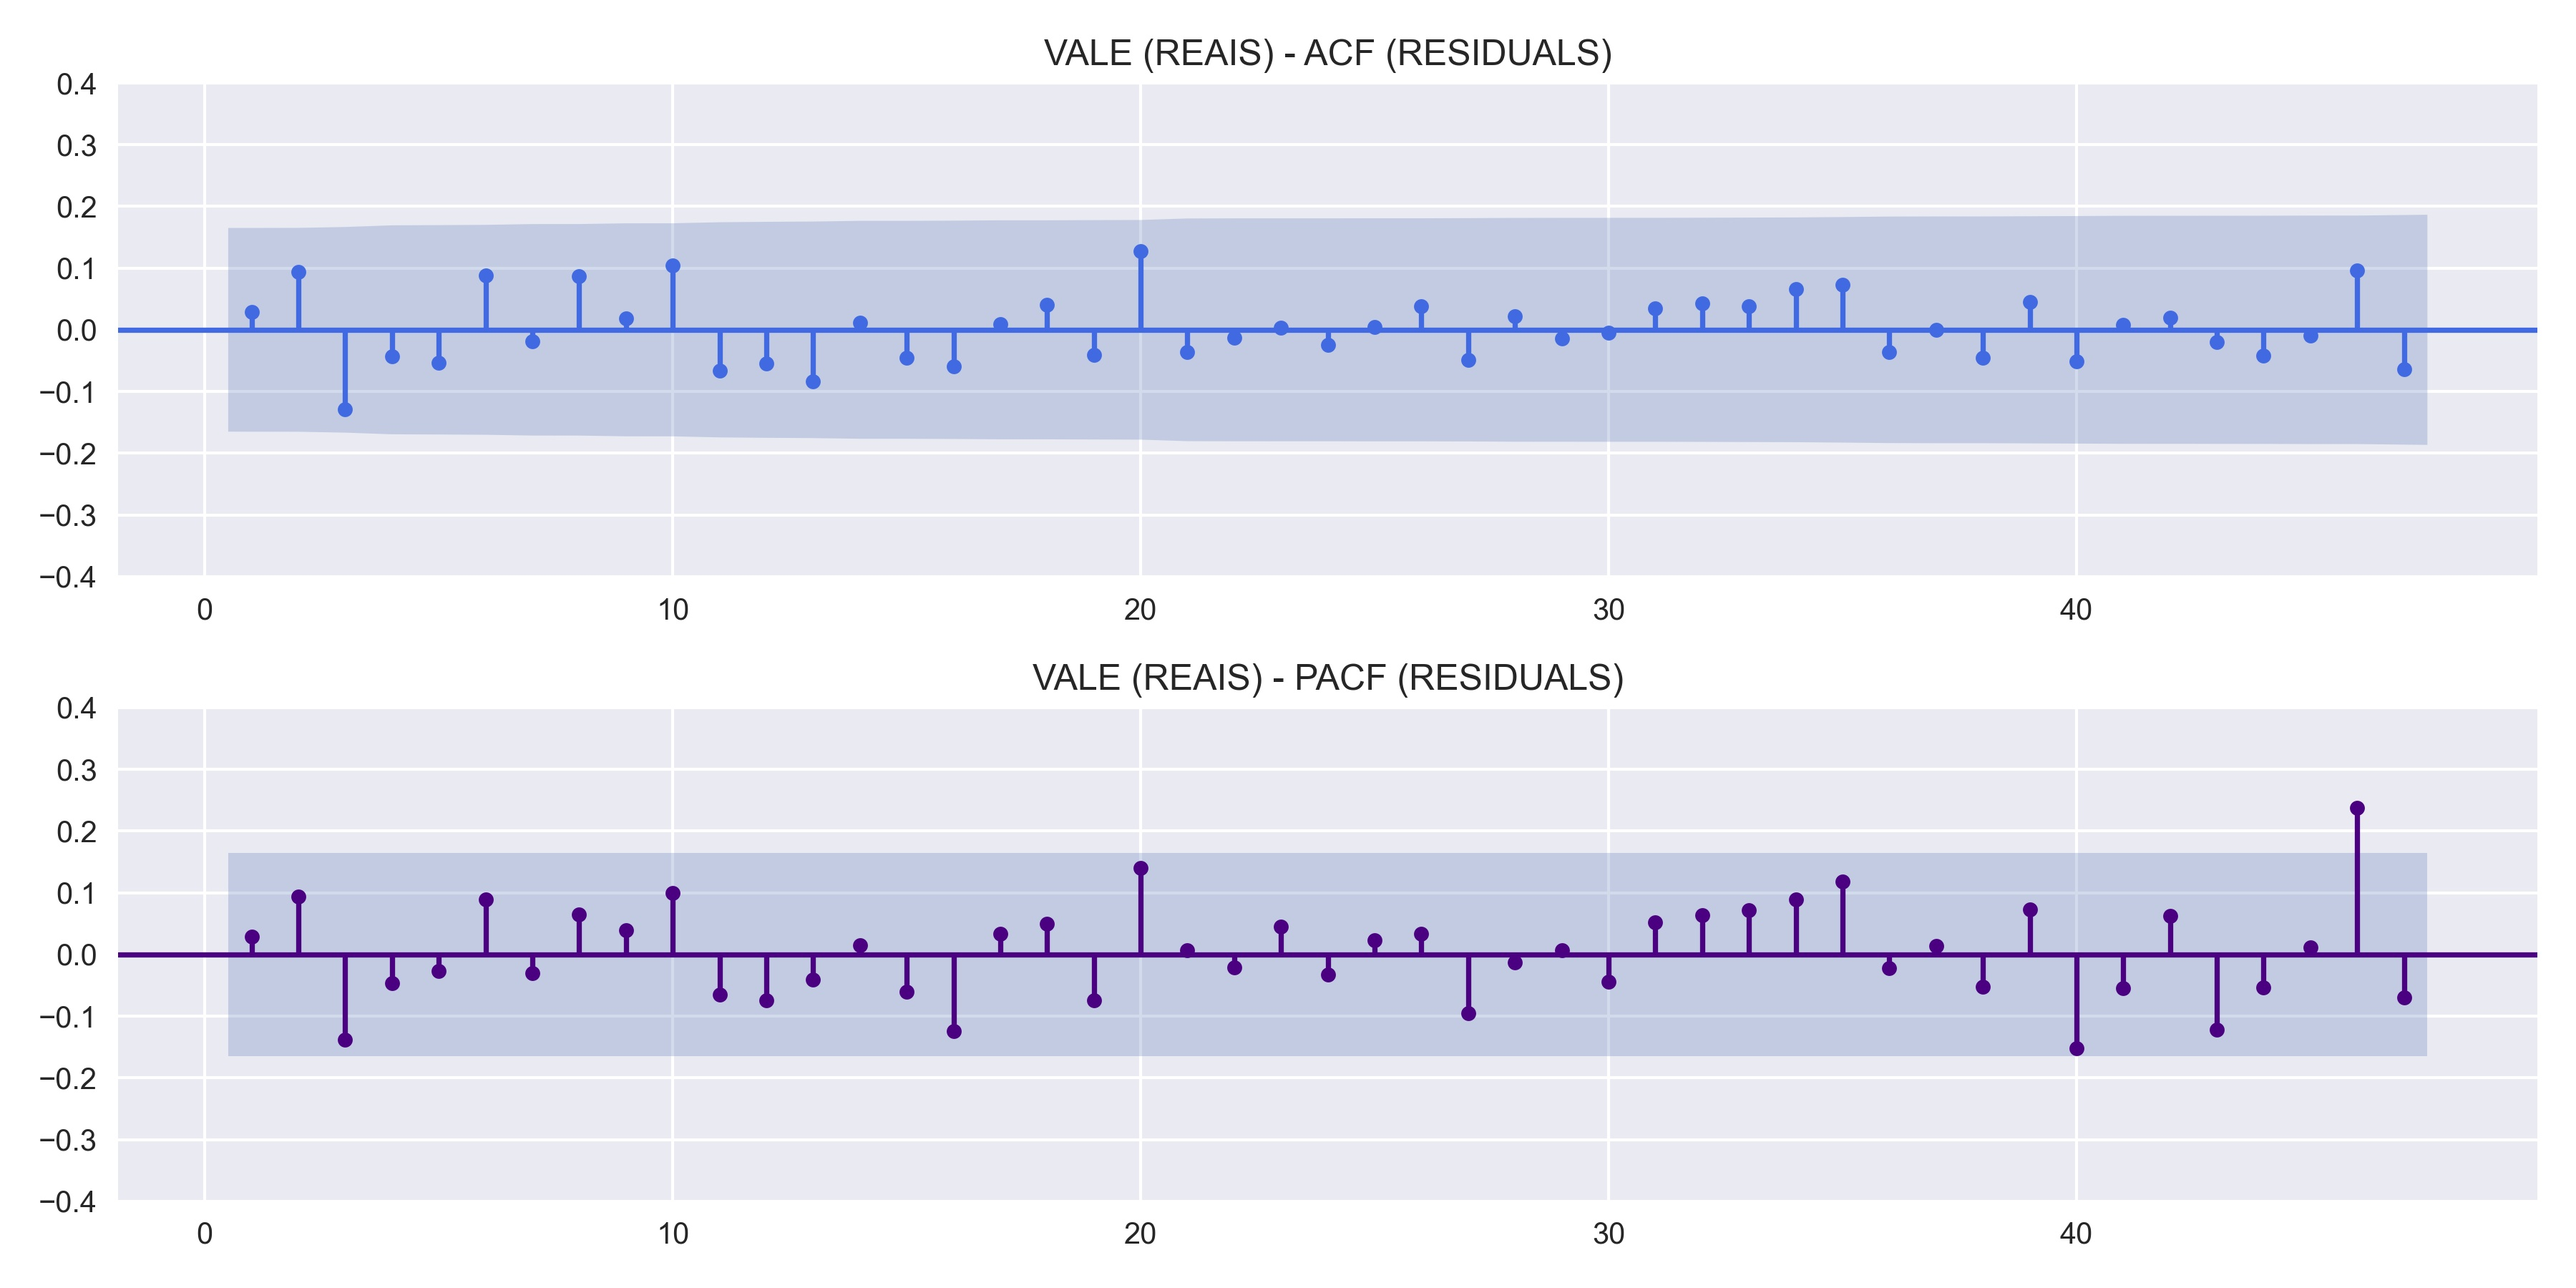
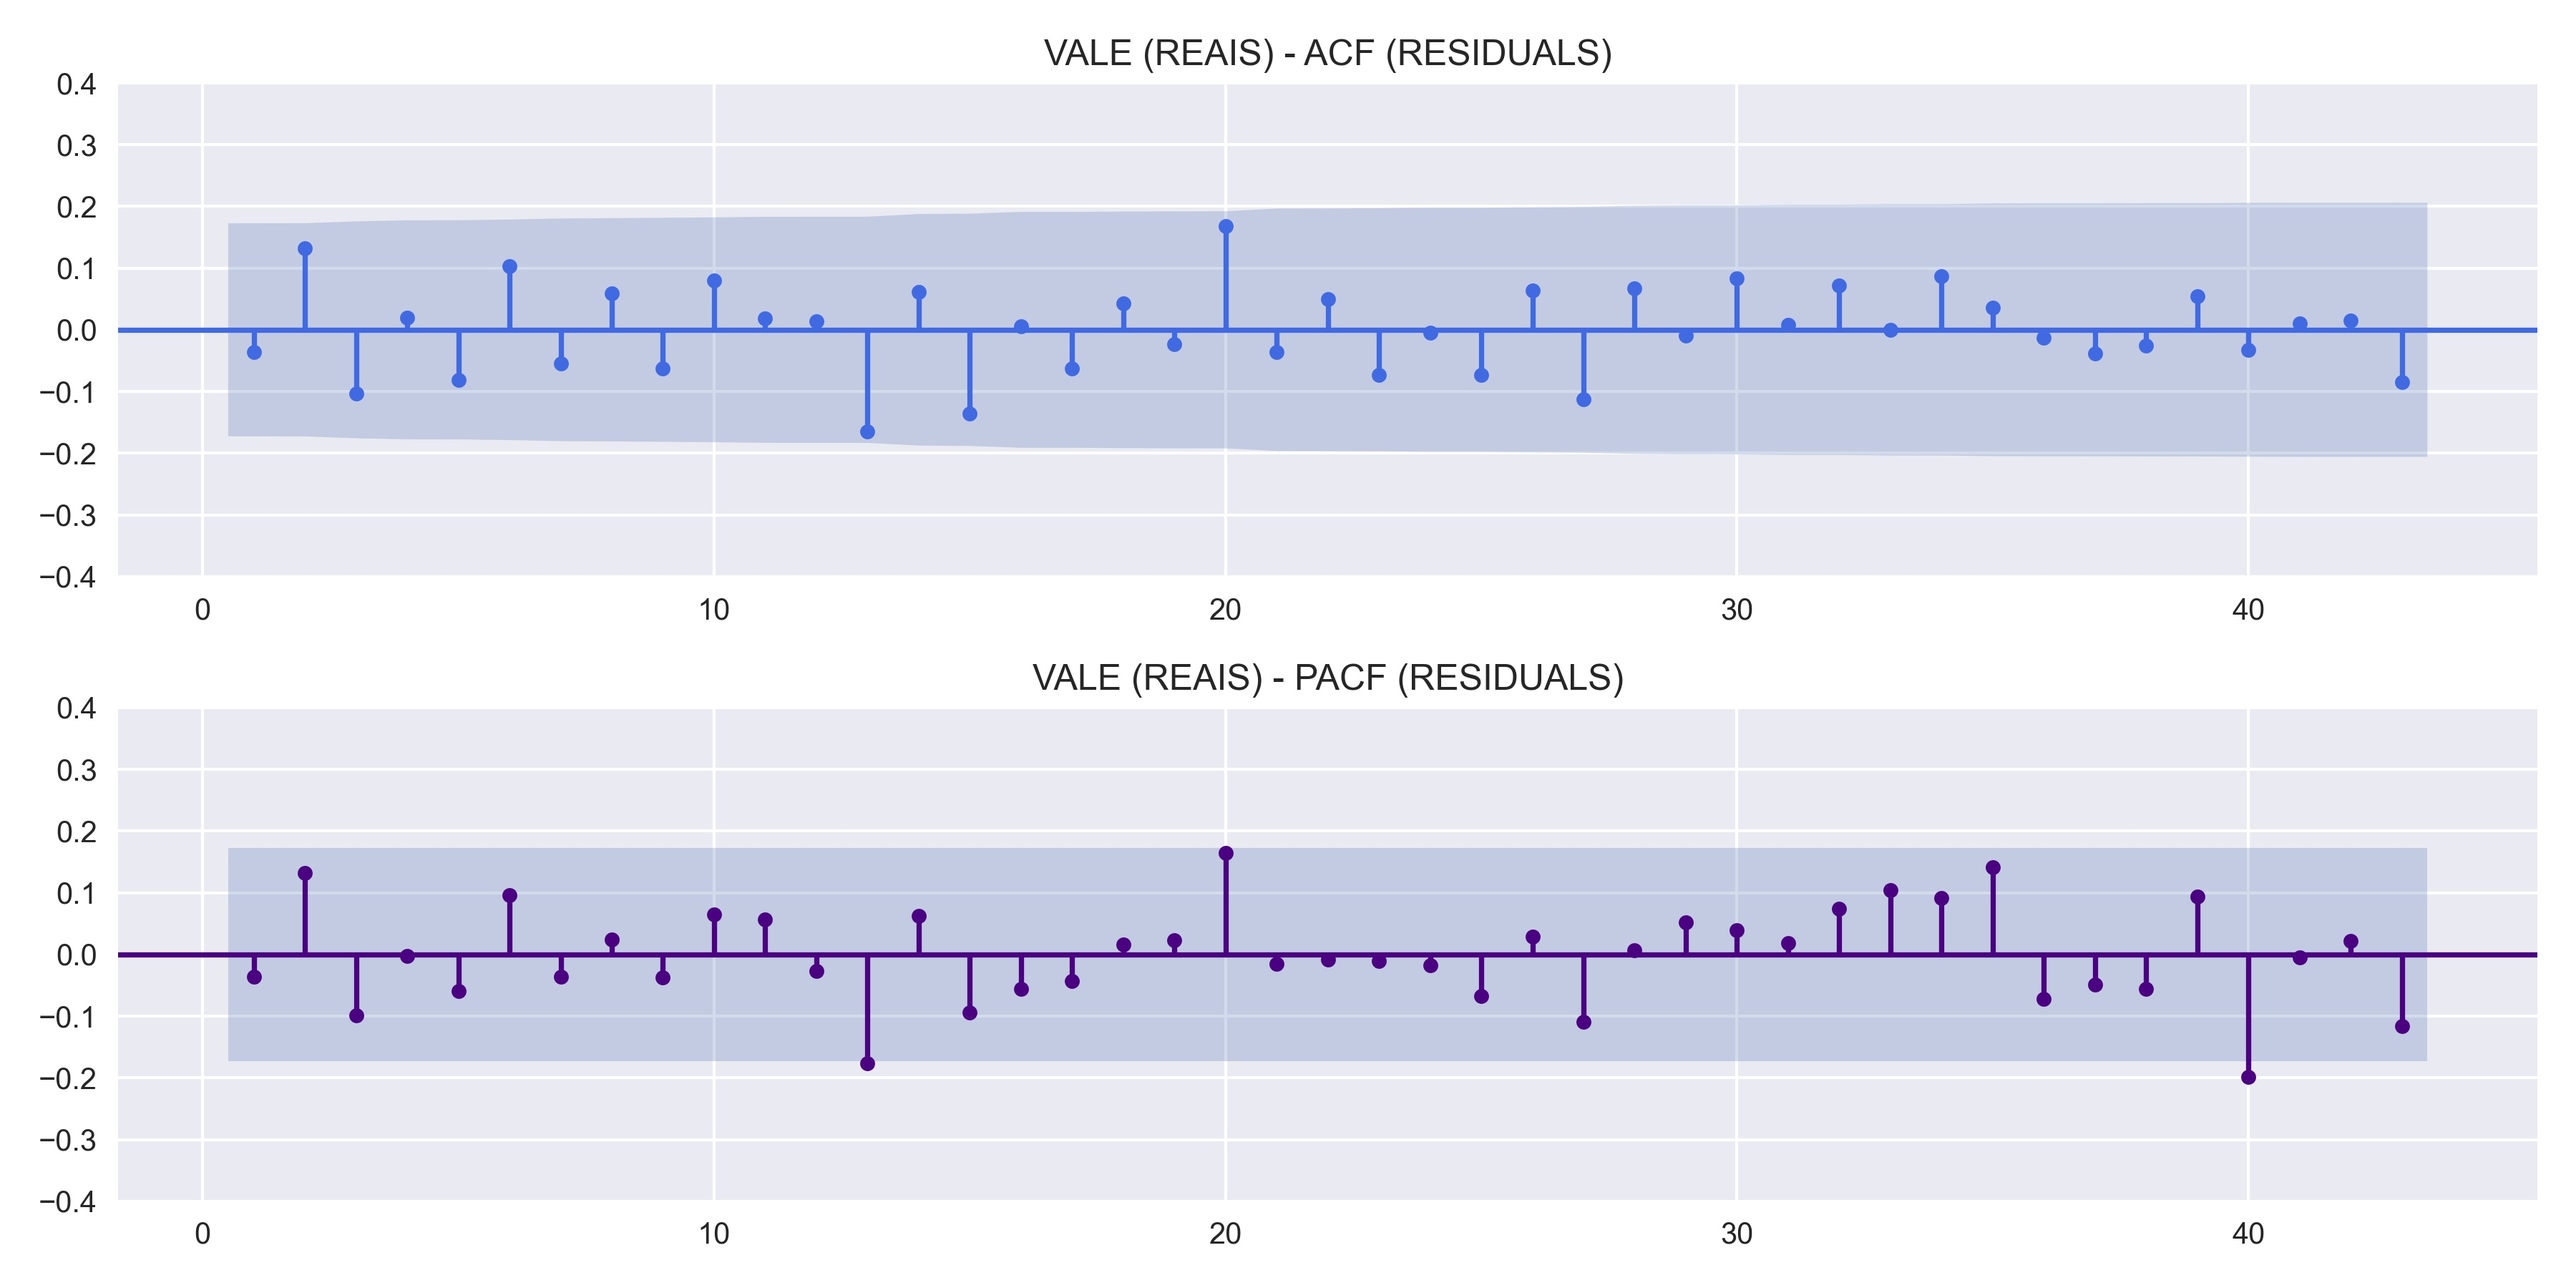
updated model run and main file, better graphics.

diff --git a/model_execute.py b/model_execute.py
@@ -7,6 +7,7 @@ from sklearn.metrics import r2_score
 from numpy import arange
 from data_input import data_exogs_fore, date_predict_init
 from data_input import data_endog as data_original
+from config import D 
 
 
 class Model_execute:
@@ -74,7 +75,8 @@ class Model_execute:
                              trend="c")
         
         self.model_fit = self.model.fit(disp=False)
-        self.resid = DataFrame(self.model_fit.resid, columns=[f"{self.variable}"]).iloc[ 1 : , : ]
+        self.resid = DataFrame(self.model_fit.resid, 
+                               columns=[f"{self.variable}"]).iloc[ ( d * 12 ) + 1 : , : ]
         model_result = self.model_fit.summary()
         
         with open('4_results/9_model_summary.txt', 'w') as desc_stat:
@@ -173,12 +175,12 @@ class Model_execute:
         """
         
         # plot config
-        fig, ax = plt.subplots(1, 1, sharex=True, figsize=( 12 , 6), dpi=300)
+        fig, ax = plt.subplots(1, 1, sharex=True, figsize=(12 , 6), dpi=300)
         plt.rcParams.update({'font.size': 12})
         plt.style.use(self.style_graph)
         
         # *** fit model ***
-        init_fitted = 35
+        init_fitted = ( D * 12 ) + 1
         self.data_endog[f"{self.variable_}_fitted"] = self.model_fit.predict(start=init_fitted,
                                                                              dynamic=False)
         
@@ -227,8 +229,9 @@ class Model_execute:
         
         # rename df results
         self.data_endog = concat([self.data_endog,
-                                  concat([predict_mean, predict.summary_frame()['mean_se'], conf_95],
-                                  axis=1)])
+                                  concat([predict_mean.iloc[ 1: , ], 
+                                          predict.summary_frame()['mean_se'].iloc[ 1: , ], 
+                                          conf_95.iloc[ 1: , ]], axis=1)])
         
         self.data_endog.columns = [f"{self.variable_}_observed",
                                    f"{self.variable_}_fitted",

diff --git a/main.py b/main.py
@@ -6,6 +6,7 @@ from x13arima_seas_adjust import X13_arima_desaz
 from stationarity import Stationarity_diff
 from model_execute import Model_execute
 from data_input import variable, data_endog, data_exogs
+from config import date_train_init
 
 
 # suppress warnings - sorry about that =(
@@ -115,11 +116,13 @@ data_dummy = read_csv("3_working/0_dummy.csv",
 data_dummy["index_date"] = to_datetime(data_dummy["index_date"])
 data_dummy = data_dummy.sort_values("index_date")
 data_dummy = data_dummy.set_index("index_date")
+data_dummy = data_dummy[ (data_dummy.index >= date_train_init) ]
 
-data_model = concat([data_non_seasonal_endog,
-                     data_stationarity.iloc[ : , 2 : ], 
+data_model = concat([data_non_seasonal_endog.iloc[ : , 0 ],
+                     data_stationarity, 
                      data_dummy], 
-                     axis=1)
+                     axis=1).dropna()
+
 # --------------------------------------------------------------------------
 #   }
 
